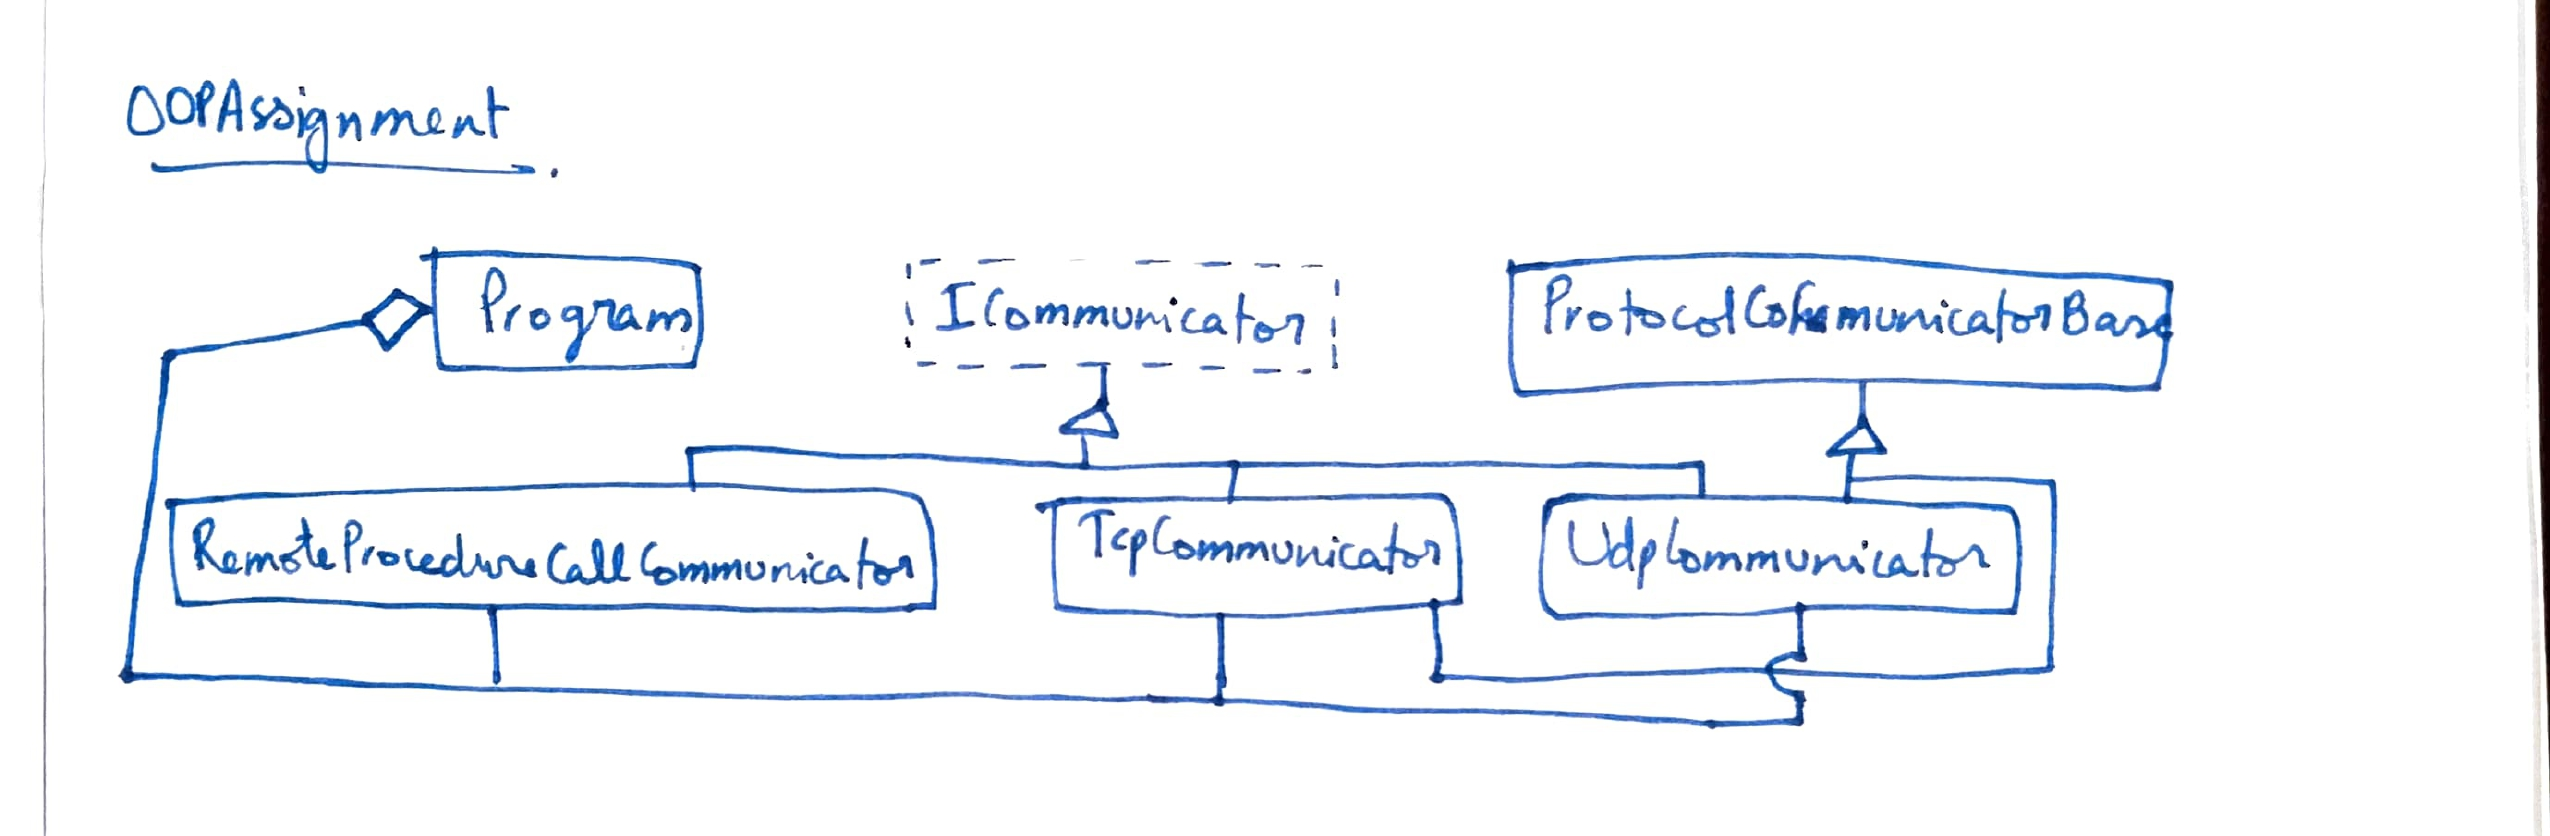
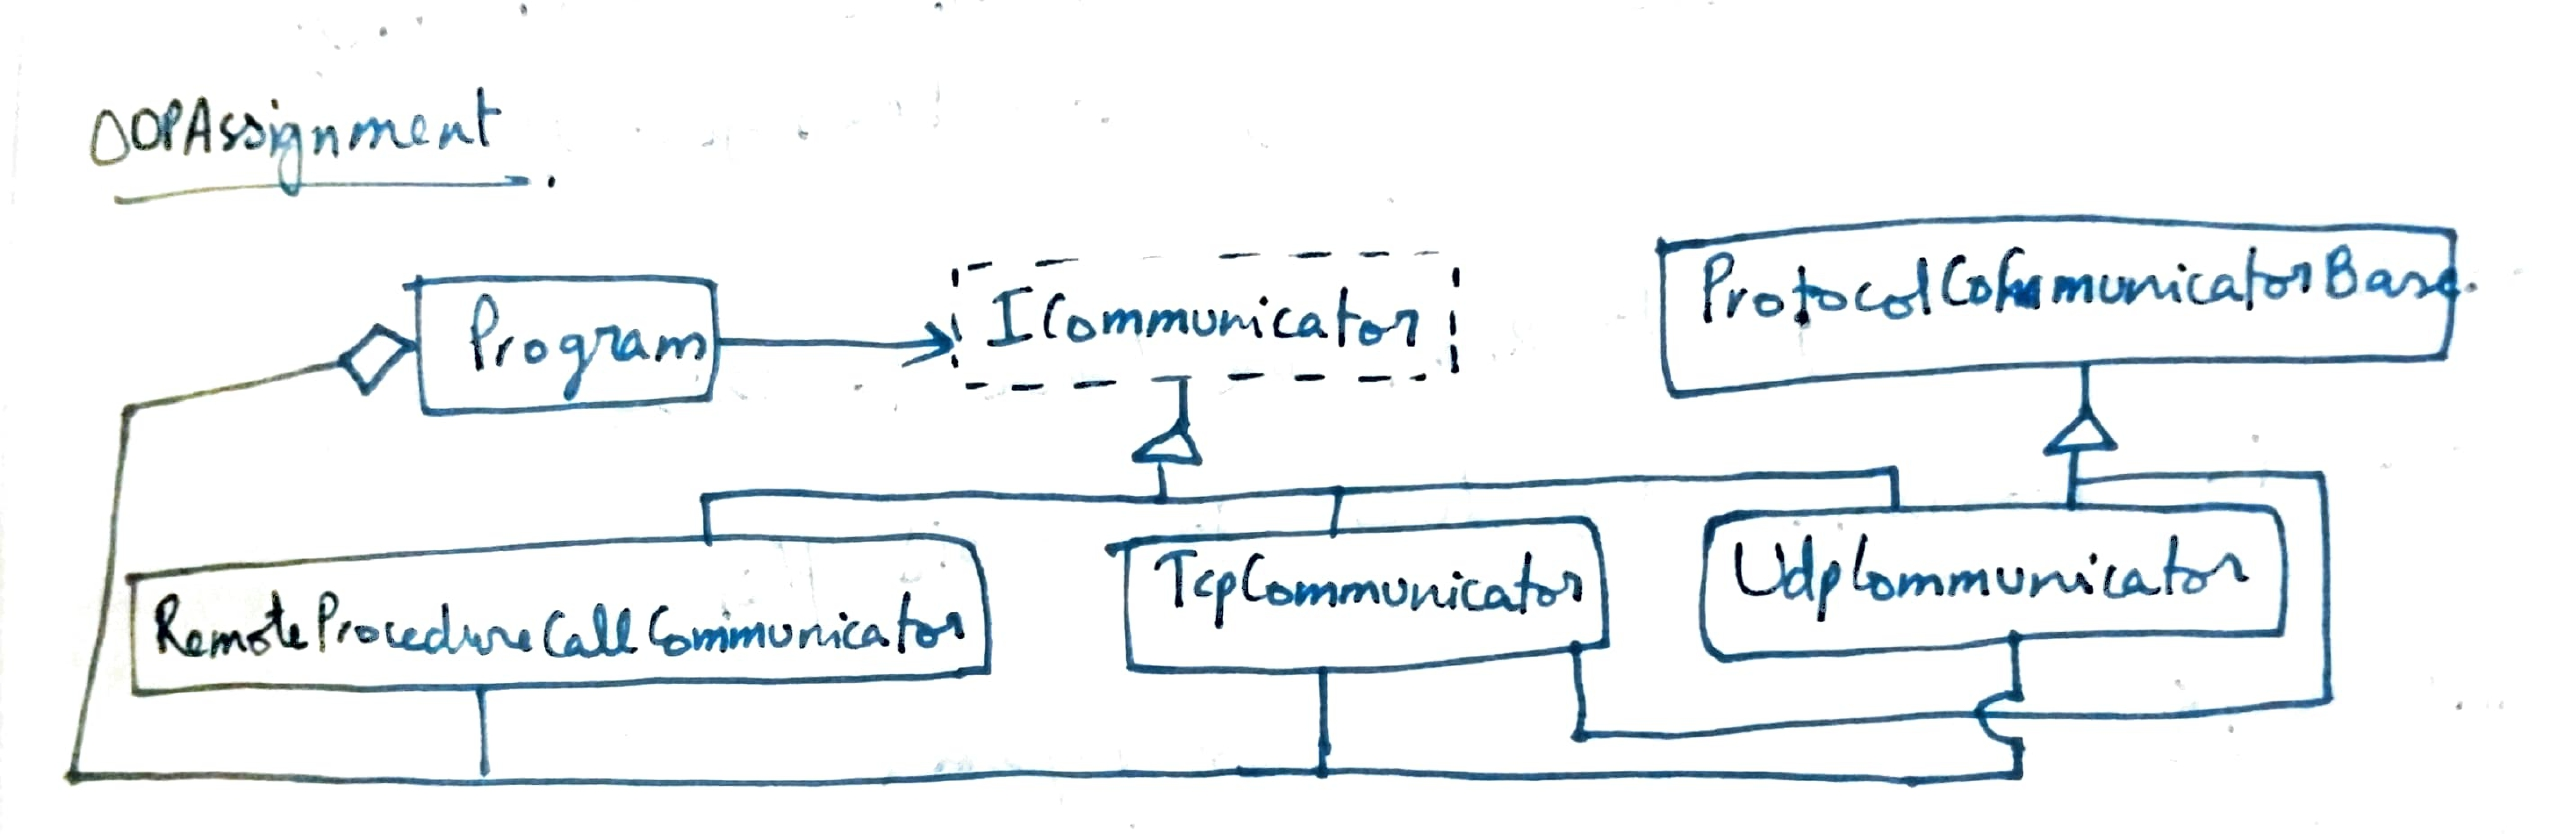
Correction in Class Diagram

Changed region(s): [[0.0, 0.0, 1.0, 1.0], [0.031, 0.0935, 0.2169, 0.2494], [0.4957, 0.2806, 0.5267, 0.3118]]

diff --git a/OOPAssignment/README.md b/OOPAssignment/README.md
@@ -9,7 +9,7 @@ The program defines:
 - **`TcpCommunicator`** – Simulated implementation using TCP protocol.  
 - **`UdpCommunicator`** – Simulated implementation using UDP protocol.  
 - **`RemoteProcedureCallCommunicator`** – Simulated implementation for RPC communication.  
-- **`Controller`** – Uses the communicators to perform operations.  
+- **`Program`** – Uses the communicators to perform operations.  
 
 ## Class Diagram
 Below is the class diagram representing the relationships among the classes:
